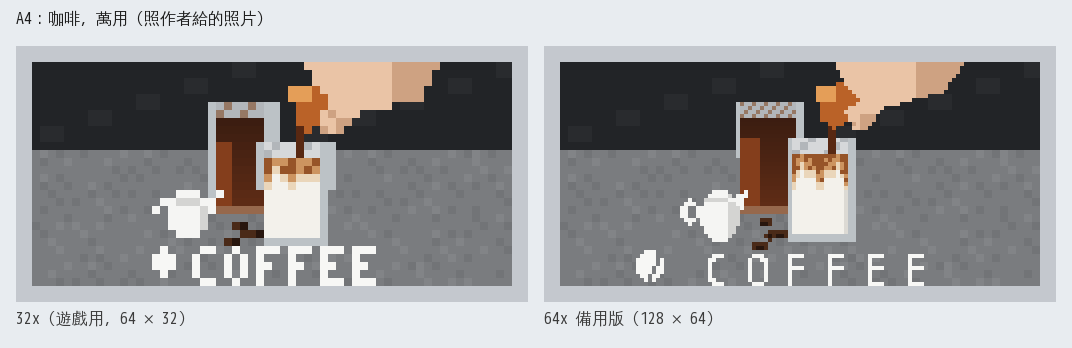
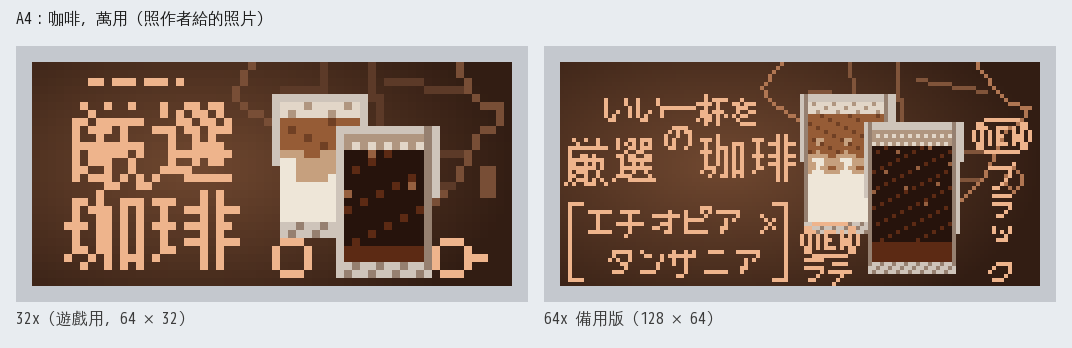
Redraw A4 coffee after the author's second reference, in Japanese
The new reference has nearly the painting's shape, so its layout maps
straight across: the brown background with the copper map of Africa, the
text block on the left, the iced latte behind the iced black coffee on
the right, and their NEW labels. The words are in Japanese; at 32x only
the title 厳選 珈琲 is readable and the small print turns into fine lines,
while the 64x spare carries the tagline, the origins and the labels.

Claude-Session: https://claude.ai/code/session_011uVpnSHaBjHmyiEcNHRQ8C

diff --git a/addon/drafts/ads/ads_2x1.py b/addon/drafts/ads/ads_2x1.py
@@ -484,181 +484,151 @@ def mcdonalds(k=1):
 
 
 # ---------- A4 coffee (unbranded) ----------
-# Template: the author's reference photo (2026-11-02): a dark wall and a grey
-# concrete table; behind, a tall iced black coffee; in front, an iced latte
-# with espresso being poured in from a small glass jug by a hand coming in
-# from the top right; a white milk jug at the lower left, coffee beans on
-# the table, and the name in white, wide-spaced capitals at the bottom. The
-# photo is about 4:3, so the scene keeps its proportions in the middle and
-# the wall, the table and the arm run on to the sides. Unbranded: the name
-# becomes a coffee-bean mark and COFFEE.
-C_WALL = (34, 36, 39)
-C_WALL2 = (41, 43, 46)
-C_TABLE = (122, 124, 127)
-C_TABLE_D = (114, 116, 119)
-C_TABLE_L = (130, 132, 135)
-C_GLASS = (188, 194, 198)
-C_BLACK = (54, 27, 16)
-C_BLACK_LOW = (98, 45, 22)
-C_BLACK_GLOW = (132, 62, 28)
-C_ICE = (214, 216, 218)
-C_ICE_D = (178, 182, 186)
-C_ESPRESSO = (150, 84, 40)
-C_TAN = (204, 148, 96)
-C_CREAM = (234, 214, 186)
-C_MILK = (243, 241, 235)
-C_MILK_D = (220, 218, 212)
-C_SKIN = (234, 196, 166)
-C_SKIN_D = (206, 162, 130)
-C_AMBER = (186, 98, 40)
-C_AMBER_L = (228, 158, 88)
-C_CHINA = (245, 245, 243)
-C_CHINA_D = (212, 212, 210)
-C_BEAN = (74, 42, 24)
-C_BEAN_D = (40, 22, 14)
-C_TEXT = (247, 247, 245)
-
-SC = 25 / 376                    # 32x pixels per pixel of the reference photo
-SW, SH = 503 * SC, 376 * SC
-OX, OY = 2 + (60 - SW) / 2, 2
+# Template: the author's second reference (2026-11-02), a coffee banner of
+# almost the same shape as the painting: a warm dark brown background with a
+# thin copper outline map of Africa at the top right; on the left, a small
+# tagline, the big title and a bracketed pair of origins; on the right, an
+# iced latte behind an iced black coffee, each with a NEW label. The words
+# are in Japanese (the author's request): 気軽に、いい一杯を (tagline),
+# 厳選の珈琲 (title, の small as in the reference), エチオピア × タンザニア
+# (origins), ラテ and ブラック (labels). At 32x only the title is readable;
+# the small words become fine-print lines, as small print does at a
+# distance. Coordinates are fractions of the reference.
+K_BG = (112, 72, 48)
+K_BG_EDGE = (50, 29, 19)
+K_COPPER = (176, 118, 82)
+K_TEXT = (238, 180, 140)
+K_GLASS = (206, 196, 186)
+K_GLASS_IN = (150, 128, 112)
+K_MILK = (238, 230, 216)
+K_LATTE = (150, 92, 54)
+K_LATTE_D = (112, 64, 36)
+K_BLACK = (38, 19, 12)
+K_BLACK_L = (92, 42, 20)
+K_ICE = (226, 214, 200)
+K_ICE_D = (176, 150, 128)
 
 
-def T(fx, fy):
-    """A point of the reference photo, as a fraction of its width and
-    height, in 32x units."""
-    return (OX + fx * SW, OY + fy * SH)
+def F(fx, fy):
+    """A point of the reference, in 32x units inside the frame."""
+    return (2 + fx * 60, 2 + fy * 28)
 
 
-def glass(img, pts, k, inside):
-    """A straight glass: inside(x, y) colours the contents, the two sides get
-    a thin light edge."""
-    xs = [round(x * k) for x, _ in pts]
-    left, right = min(xs), max(xs)
+AFRICA = [(0.47, -0.02), (0.86, -0.02), (0.90, 0.10), (0.93, 0.18), (0.975, 0.19), (0.96, 0.25),
+          (0.92, 0.33), (0.90, 0.42), (0.88, 0.50), (0.85, 0.58), (0.81, 0.64), (0.78, 0.60),
+          (0.76, 0.50), (0.74, 0.40), (0.72, 0.33), (0.70, 0.30), (0.60, 0.30), (0.55, 0.28),
+          (0.49, 0.25), (0.44, 0.18), (0.42, 0.10), (0.44, 0.03), (0.47, -0.02)]
+BORDERS = [[(0.60, 0.0), (0.62, 0.28)], [(0.70, 0.0), (0.71, 0.30)], [(0.74, 0.08), (0.88, 0.12)],
+           [(0.74, 0.38), (0.89, 0.40)], [(0.76, 0.50), (0.87, 0.52)], [(0.52, 0.12), (0.70, 0.16)]]
+
+
+def line(img, pts, k, color):
+    ImageDraw.Draw(img).line([(round(F(*p)[0] * k), round(F(*p)[1] * k)) for p in pts], fill=color + (255,), width=1)
+
+
+def fine_print(img, x0, x1, y, k, color):
+    """Text too small to read: a broken line, as fine print looks."""
+    for x in range(round(x0 * k), round(x1 * k)):
+        if (x // max(1, k)) % 4 != 3:
+            put(img, x, round(y * k), color)
+
+
+def iced_glass(img, x0, x1, y0, y1, k, contents):
+    """A double-walled glass seen from the front: contents(t, x, y) colours
+    the inside by height t (0 at the rim, 1 at the bottom of the drink)."""
+    X0, X1 = F(x0, 0)[0], F(x1, 0)[0]
+    Y0, Y1 = F(0, y0)[1], F(0, y1)[1]
+    base = Y1 - (Y1 - Y0) * 0.07
+    wall = 0.8
 
     def paint(x, y):
-        if x <= left or x >= right - 1:
-            return C_GLASS
-        return inside(x, y)
-    poly(img, pts, k, paint)
+        u, v = x / k, y / k
+        if u < X0 + 0.5 or u > X1 - 0.6:
+            return K_GLASS
+        if v > base:
+            return K_GLASS if (x + y) % 3 else K_GLASS_IN
+        if u < X0 + wall or u > X1 - wall - 0.4:
+            return K_GLASS_IN
+        if v < Y0 + 0.6:
+            return K_GLASS
+        return contents((v - Y0) / (base - Y0), x, y)
+    poly(img, [(X0, Y0), (X1, Y0), (X1 - 0.6, Y1), (X0 + 0.6, Y1)], k, paint)
 
 
-def spaced(img, cx, y, word, color, k):
-    """Wide-spaced capitals centred on cx: the 3 x 5 font at 32x, the outline
-    font at 64x."""
+def latte_inside(t, x, y):
+    if t < 0.12:
+        return K_ICE if (x + 2 * y) % 5 else K_ICE_D
+    swirl = 0.08 * math.sin(x * 0.9) + 0.06 * math.sin(y * 1.3)
+    if t < 0.45 + swirl:
+        return K_LATTE if (x * 3 + y) % 7 else K_LATTE_D
+    if t < 0.58 + swirl:
+        return (198, 160, 126)
+    return K_MILK
+
+
+def black_inside(t, x, y):
+    if t < 0.16:
+        return K_ICE_D if (x * 2 + y) % 4 else K_ICE
+    if (x * 5 + y * 3) % 37 == 0 and t < 0.6:
+        return (150, 96, 64)                         # a glint on an ice cube
+    return K_BLACK_L if (x + y * 2) % 9 == 0 or t > 0.85 else K_BLACK
+
+
+def badge(img, x, y, k):
+    """The round NEW badge, centred on (x, y) in pixels."""
     if k == 1:
-        gap = 1
-        width = len(word) * 3 + (len(word) - 1) * gap
-        x = round(cx - width / 2)
-        for ch in word:
-            tiny(img, x, y, ch, color)
-            x += 3 + gap
-        return
-    gap, size = 4, 11
-    widths = [text_box(ch, size)[2] - text_box(ch, size)[0] for ch in word]
-    x = round(cx - (sum(widths) + gap * (len(word) - 1)) / 2)
-    for ch, w in zip(word, widths):
-        text(img, x, y, ch, color, size)
-        x += w + gap
+        ImageDraw.Draw(img).ellipse([x - 2, y - 2, x + 2, y + 2], outline=K_TEXT + (255,))
+    else:
+        ImageDraw.Draw(img).rounded_rectangle([x - 7, y - 4, x + 7, y + 4], radius=4, outline=K_TEXT + (255,))
+        tiny(img, x - 5, y - 2, "NEW", K_TEXT)
 
 
 def coffee(k=1):
-    img = canvas(2, 1, C_WALL, k)
+    img = canvas(2, 1, K_BG_EDGE, k)
     W, H = img.size
-    horizon = T(0, 0.44)[1]
+    cx, cy = F(0.33, 0.45)
     for y in range(H):
         for x in range(W):
-            if y < horizon * k:
-                c = C_WALL2 if ((x // (3 * k)) * 7 + (y // (2 * k)) * 3) % 11 == 0 else C_WALL
-            else:
-                n = ((x // k) * 37 + (y // k) * 53 + ((x // k) * (y // k)) % 7) % 23
-                c = C_TABLE_D if n < 3 else (C_TABLE_L if n > 20 else C_TABLE)
-            put(img, x, y, c)
+            d = math.hypot((x / k - cx) / 40, (y / k - cy) / 22)
+            t = min(1, d)
+            put(img, x, y, tuple(round(a + (b - a) * t) for a, b in zip(K_BG, K_BG_EDGE)))
 
-    # iced black coffee, behind
-    top, bot = T(0, 0.21)[1], T(0, 0.74)[1]
+    copper = K_COPPER if k > 1 else (120, 78, 54)    # thin lines, quieter at 32x
+    line(img, AFRICA, k, copper)                     # the map, top right
+    for b in BORDERS:
+        line(img, b, k, (128, 84, 58) if k > 1 else (92, 58, 40))
+    mx0, my0 = F(0.925, 0.46)
+    mx1, my1 = F(0.955, 0.58)
+    ImageDraw.Draw(img).ellipse([round(mx0 * k), round(my0 * k), round(mx1 * k), round(my1 * k)], outline=copper + (255,))
 
-    def black(x, y):
-        t = (y / k - top) / (bot - top)
-        if t < 0.1:
-            return C_ICE_D if (x + y) % 3 else (150, 120, 100)
-        if t > 0.93:
-            return (150, 104, 76)                    # the thick glass base
-        c = tuple(round(a + (b - a) * t) for a, b in zip(C_BLACK, C_BLACK_LOW))
-        if (x / k - T(0.27, 0)[0]) < 2.2 and t > 0.3:
-            c = C_BLACK_GLOW
-        return c
-    glass(img, [T(0.26, 0.21), T(0.50, 0.21), T(0.49, 0.74), T(0.27, 0.74)], k, black)
+    iced_glass(img, 0.50, 0.69, 0.15, 0.75, k, latte_inside)    # latte behind
+    iced_glass(img, 0.63, 0.83, 0.27, 0.93, k, black_inside)    # black in front
 
-    # milk jug, lower left
-    jx0, jy0 = T(0.12, 0.67)
-    jx1, jy1 = T(0.27, 0.90)
-    hx0, hy0 = T(0.05, 0.69)
-    hx1, hy1 = T(0.13, 0.82)
-    oval(img, hx0, hy0, hx1, hy1, k, C_CHINA)                       # handle
-    oval(img, hx0 + 0.9, hy0 + 0.9, hx1 - 0.4, hy1 - 0.9, k, C_TABLE)
-    oval(img, jx0, jy0 - 0.5, jx1, jy1, k, lambda x, y: C_CHINA_D if x > (jx1 - 1.6) * k else C_CHINA)
-    band(img, jx0 + 0.5, jx1 - 0.5, jy0, jy0 + 0.6, k, C_CHINA_D)    # the rim
-    poly(img, [(jx1 - 1.2, jy0), (jx1 + 0.8, jy0 - 0.8), (jx1, jy0 + 1)], k, C_CHINA)   # spout
-
-    # iced latte, in front
-    ltop, lbot = T(0, 0.38)[1], T(0, 0.88)[1]
-
-    def latte(x, y):
-        t = (y / k - ltop) / (lbot - ltop)
-        u = x / k
-        if t < 0.15:                                 # ice above the coffee
-            return C_ICE if (x // max(1, k) + y // max(1, k)) % 4 else C_ICE_D
-        wave = 0.08 * math.sin(u * 1.7) + 0.05 * math.sin(u * 3.9)
-        if t < 0.22 + wave:
-            return C_ESPRESSO
-        if t < 0.33 + wave:
-            return C_TAN if (x + y) % 3 else C_ESPRESSO
-        if t < 0.40 + wave:
-            return C_CREAM
-        if t > 0.95:
-            return C_GLASS
-        return C_MILK_D if u > T(0.66, 0)[0] else C_MILK
-    glass(img, [T(0.45, 0.38), T(0.70, 0.38), T(0.69, 0.88), T(0.46, 0.88)], k, latte)
-
-    # the pour: a small glass jug of espresso held by a hand from the top right
-    sx, sy = T(0.60, 0.30)
-    ex, ey = T(0.605, 0.44)
-    for i in range(round(sy * k), round(ey * k) + 1):
-        for j in range(max(1, k // 2 + (k > 1))):
-            put(img, round(sx * k) + j, i, (88, 40, 18))
-    poly(img, [T(0.56, 0.12), T(0.70, 0.07), T(0.74, 0.22), T(0.62, 0.31), T(0.58, 0.29)], k,
-         lambda x, y: C_AMBER_L if x < T(0.62, 0)[0] * k and y < T(0, 0.2)[1] * k else C_AMBER)
-    # the forearm leaves the picture through the top edge, up to the right
-    poly(img, [T(0.63, 0.0), (52, 2), (49.6, 5.6), T(0.80, 0.22), T(0.74, 0.31), T(0.69, 0.33),
-               T(0.67, 0.25), T(0.72, 0.18), T(0.66, 0.10)], k,
-         lambda x, y: C_SKIN_D if x > 46 * k or (y > T(0, 0.24)[1] * k and x > T(0.72, 0)[0] * k) else C_SKIN)
-    for fx, fy in ((0.69, 0.30), (0.72, 0.26)):                     # finger creases
-        put(img, round(T(fx, fy)[0] * k), round(T(fx, fy)[1] * k), C_SKIN_D)
-
-    # coffee beans
-    for fx, fy in ((0.37, 0.80), (0.39, 0.865), (0.425, 0.855), (0.35, 0.915)):
-        bx, by = T(fx, fy)
-        if k == 1:
-            put(img, math.floor(bx), math.floor(by), C_BEAN)
-            put(img, math.floor(bx) + 1, math.floor(by), C_BEAN_D)
-        else:
-            oval(img, bx - 0.9, by - 0.6, bx + 0.9, by + 0.7, k, C_BEAN)
-            put(img, round(bx * k) - 1, round(by * k), C_BEAN_D)
-            put(img, round(bx * k), round(by * k), C_BEAN_D)
-
-    # the name: a bean mark and COFFEE, white, wide-spaced
-    cx = T(0.51, 0)[0]
-    word_w = (6 * 3 + 5 * 1) if k == 1 else 60 / k
-    mark_x = cx - word_w / 2 - 4
-    ty = 25 if k == 1 else 51
     if k == 1:
-        sprite(img, round(mark_x), ty, [".#.", "###", "###", ".#."], C_TEXT)
-        spaced(img, cx + 1.5, ty, "COFFEE", C_TEXT, k)
+        fine_print(img, 9, 21, 4, k, K_TEXT)                     # tagline
+        text(img, 6, 6, "厳選", K_TEXT, 11)                       # title, on two lines
+        text(img, 6, 18, "珈琲", K_TEXT, 11)
+        badge(img, 34, 26, k)                                     # NEW ラテ
+        badge(img, 54, 26, k)                                     # NEW ブラック
+        fine_print(img, 57, 60.5, 26, k, K_TEXT)
     else:
-        oval(img, mark_x - 1.6, 25.4, mark_x + 1.6, 29.6, k, C_TEXT)
-        for i in range(-3, 4):
-            put(img, round(mark_x * k) + (1 if i < 0 else 0) - (1 if i > 1 else 0), 55 + i, C_TABLE)
-        spaced(img, (cx + 1.5) * k, ty + 1, "COFFEE", C_TEXT, k)
+        text(img, 14, 12, "いい一杯を", K_TEXT, 8)                 # tagline
+        text(img, 5, 22, "厳選", K_TEXT, 12)                      # title, の small and raised
+        text(img, 30, 20, "の", K_TEXT, 8)
+        text(img, 39, 22, "珈琲", K_TEXT, 12)
+        d = ImageDraw.Draw(img)
+        d.line([(9, 39), (6, 39), (6, 58), (9, 58)], fill=K_TEXT + (255,))         # the bracketed origins
+        d.line([(57, 39), (60, 39), (60, 58), (57, 58)], fill=K_TEXT + (255,))
+        text(img, 10, 40, "エチオピア ×", K_TEXT, 8)
+        text(img, 15, 50, "タンザニア", K_TEXT, 8)
+        badge(img, 71, 48, k)                                     # NEW ラテ, under the latte
+        text(img, 64, 53, "ラテ", K_TEXT, 7)
+        badge(img, 114, 22, k)                                    # NEW ブラック, written down the right side
+        y = 29
+        for ch in "ブラック":
+            b = text_box(ch, 7)
+            text(img, 114 - (b[2] - b[0]) // 2, y, ch, K_TEXT, 7)
+            y += 8
     return finish(img, k)
 
 

diff --git a/docs/ads.md b/docs/ads.md
@@ -44,7 +44,7 @@
 | A1 | Pool | `kz.png` (0, 32) | 麥當勞 | 照作者給的照片畫（2026-11-02）：深灰的牆、會反光的黑桌面；後排是白色杯子、兩個深灰色的 Signature 漢堡盒、直立的紅色薯條盒、白色杯子；前排是倒下的薯條盒、石板上的牛肉堡與炸雞堡。草稿，待作者確認 |
 | A2 | Courbet | `kz.png` (32, 32) | 電信：本國的電信公司，仿 Spark 的風格 | 公司名稱待取，先模糊帶過 |
 | A3 | Sea | `kz.png` (64, 32) | 鼎泰豐 | **定稿**（2026-11-02）。像新加坡一樣，到處都有鼎泰豐。照作者給的鼎泰豐橫幅畫，版面不改：深色木桌上俯視的菜（小籠包、牛肉麵、紅油抄手、雞湯、蝦仁炒飯、小菜、燒賣），右邊紅色直條裡直書的白色標誌，不放標語。32x 的標誌是手繪的 9 × 8 字，「鼎」照作者的標註在目的左右加了筆畫 |
-| A4 | Sunset | `kz.png` (96, 32) | 咖啡（萬用） | 照作者給的照片畫（2026-11-02）：深色的牆、灰色水泥桌；後面一杯冰黑咖啡，前面一杯冰拿鐵，右上的手拿小玻璃杯把濃縮咖啡倒進拿鐵；左下白色奶盅、桌上幾顆咖啡豆。照片約 4:3，所以畫面等比例放在中間，牆、桌與手臂往兩邊延伸。品牌名換成 Claude 設計的咖啡豆標誌加「COFFEE」（白色、字距放寬）。草稿，待作者確認 |
+| A4 | Sunset | `kz.png` (96, 32) | 咖啡（萬用） | 照作者給的第二張參考圖畫（2026-11-02，換掉第一張）：深咖啡色底、右上細銅線的非洲地圖；左邊小標語、大標題、括號裡的兩個產地；右邊冰拿鐵在後、冰黑咖啡在前，各有 NEW 標籤。文字改成日文：標語「いい一杯を」（原文「簡單喝杯好咖啡」，64x 只放得下這樣）、標題「厳選の珈琲」（の 照原圖做成小字）、產地「エチオピア × タンザニア」、標籤「ラテ」「ブラック」。32x 只有標題讀得出來（兩行「厳選」「珈琲」），標語、產地、標籤名變成細小的印刷線；64x 的「ブラック」放不下橫排，改成直書。草稿，待作者確認 |
 | A5 | Creebet | `kz.png` (128, 32) | 補習班（萬用） | |
 
 ## 1 × 2（0.75 × 1.5 公尺）
